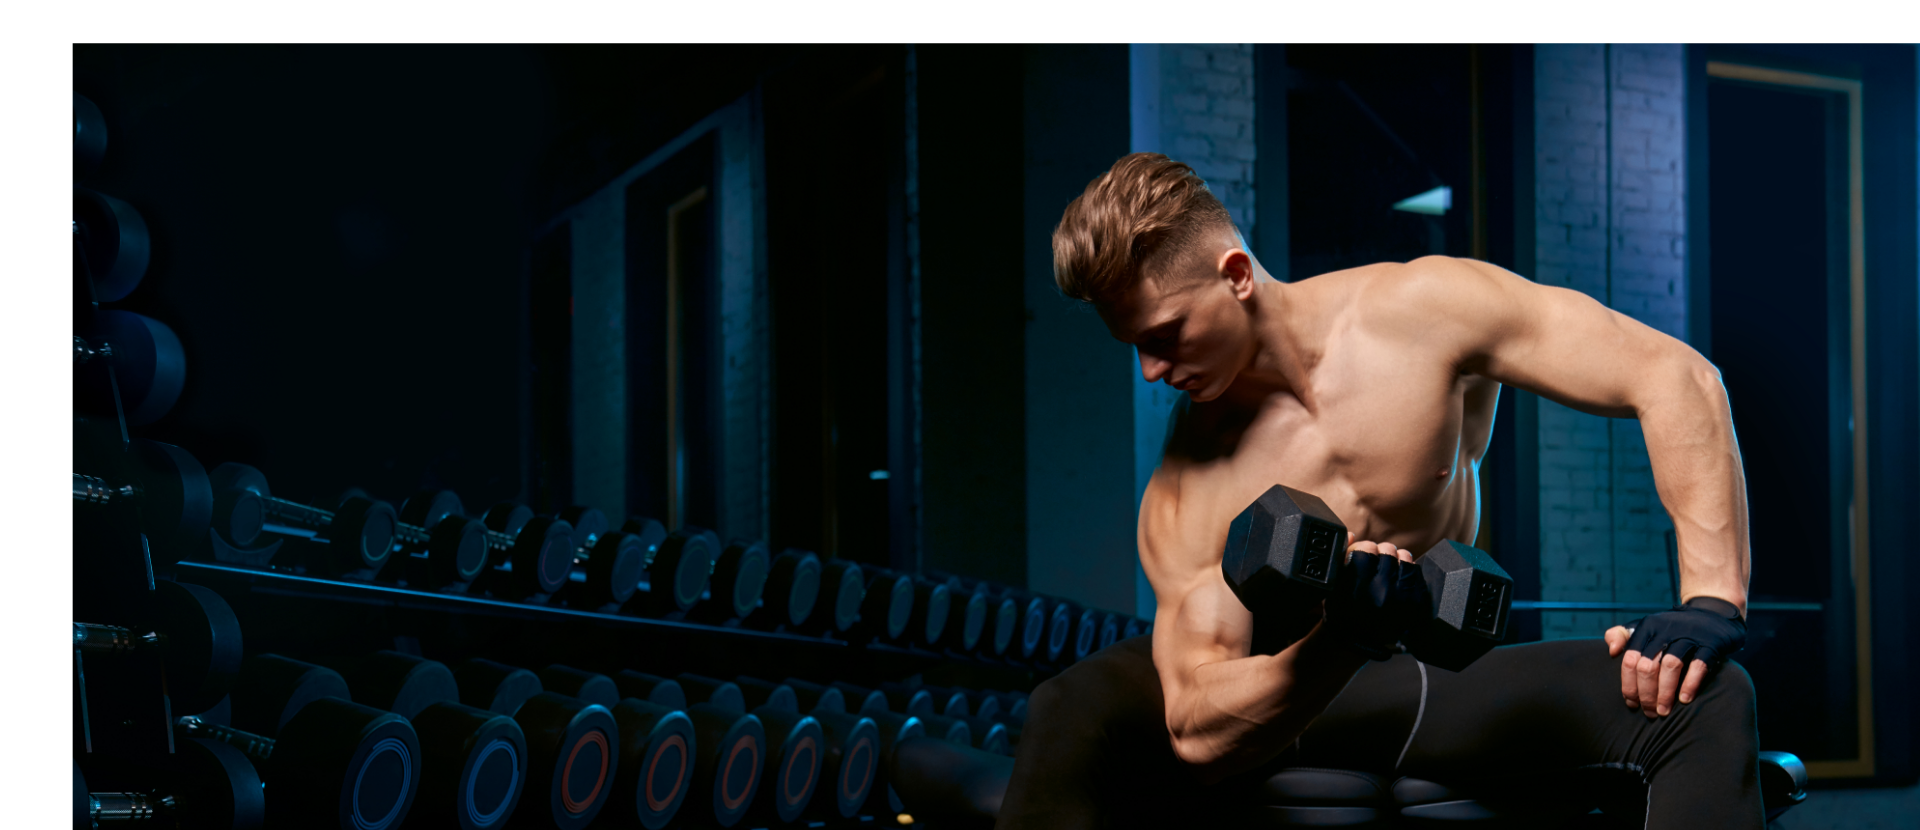
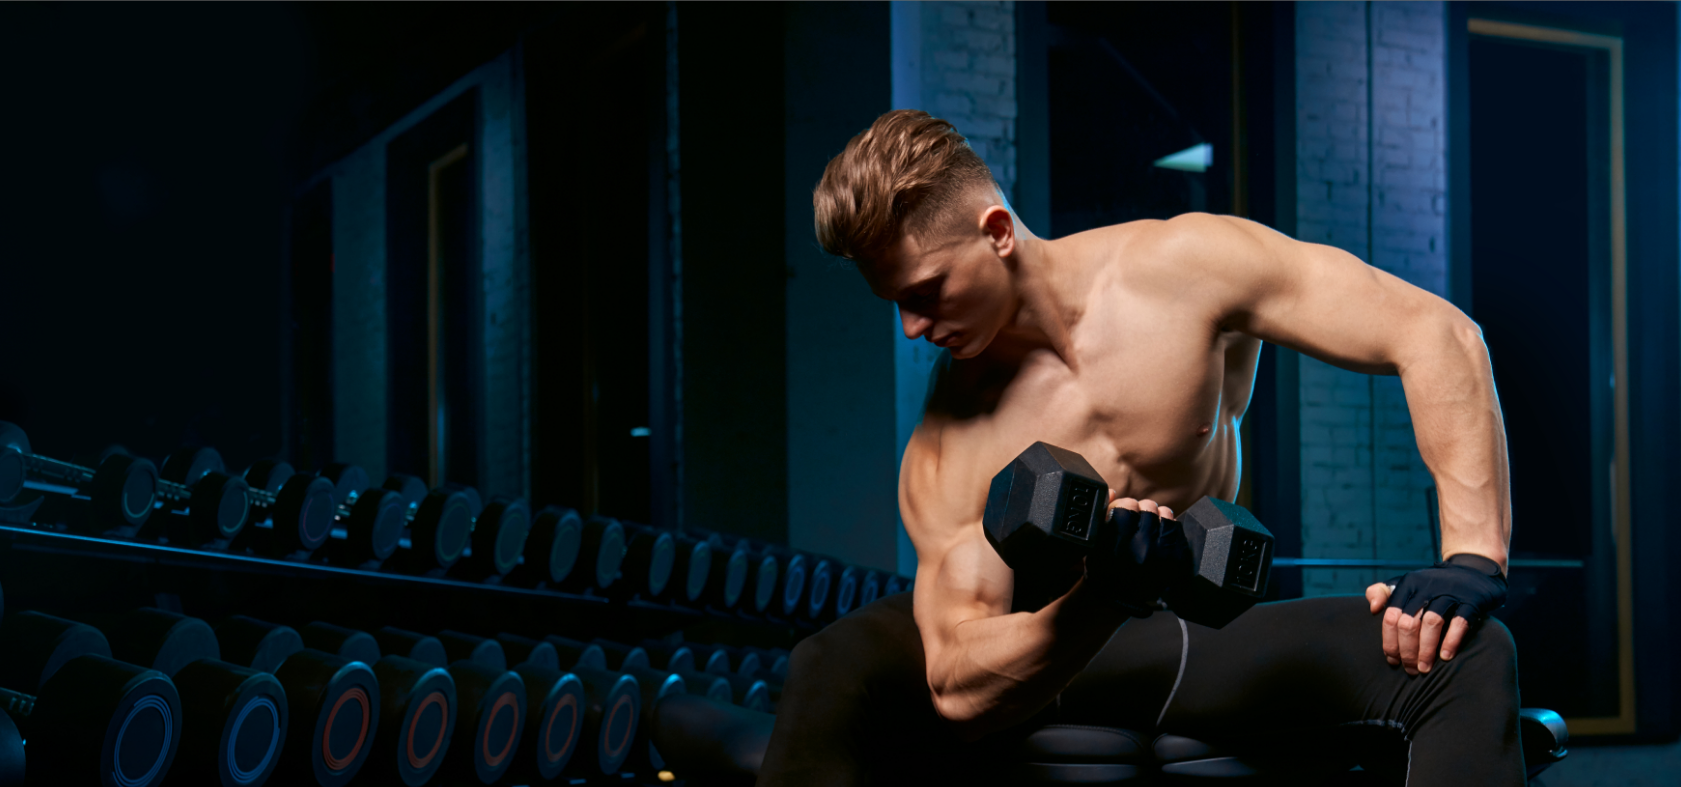
Added Home Section

diff --git a/index.html b/index.html
@@ -12,10 +12,10 @@
     <link rel="stylesheet" href="./style/style.css" />
   </head>
   <body>
-    <header class="header container-fluid bg-dark p-0" id="header">
+    <header class="header container-fluid bg-dark p-0 site-nav" id="header">
       <div class="container">
         <div class="row">
-          <div class="12 p-0">
+          <div class="col-12 p-0">
             <nav class="navbar navbar-expand-lg navbar-dark">
               <div
                 class="container-fluid align-items-center align-items-lg-end"
@@ -69,6 +69,31 @@
         </div>
       </div>
     </header>
+    <section id="home">
+      <div class="container-fluid home">
+        <div class="layer"></div>
+        <div class="container">
+          <div class="row">
+            <div class="col-12 col-md-8 col-lg-7">
+              <div
+                class="min-vh-100 d-flex align-items-end align-items-md-center"
+              >
+                <div class="mb-3 mb-lg-5 pb-lg-5 p-4 p-lg-5 home-text">
+                  <p class="h4 text-white">You Dont't Find</p>
+                  <h1 class="text-uppercase fw-bold display-1 text-light">
+                    Wll power
+                  </h1>
+                  <p class="h4 text-white">You create it</p>
+                  <a href="" class="btn btn-outline-light mt-2 text-uppercase"
+                    >Join us Now</a
+                  >
+                </div>
+              </div>
+            </div>
+          </div>
+        </div>
+      </div>
+    </section>
     <script src="./js/jQuery.js"></script>
     <script src="./node_modules/@popperjs/core/dist/umd/popper.js"></script>
     <script src="./vendor/bootstrap/js/bootstrap.bundle.js"></script>

diff --git a/style/style.css b/style/style.css
@@ -1,0 +1,89 @@
+* {
+  box-sizing: border-box;
+  margin: 0;
+  padding: 0;
+}
+
+body {
+  height: 300vh;
+}
+
+.site-nav {
+  position: absolute;
+  top: 0px;
+  left: 0px;
+  z-index: 2000;
+}
+
+.home {
+  background-image: url("../img/content-1.png");
+  background-repeat: no-repeat;
+  background-size: cover;
+}
+
+.home-text {
+  position: relative;
+}
+
+.home-text:before,
+.home-text:after {
+  content: "";
+  display: block;
+  position: absolute;
+  background-color: transparent;
+  pointer-events: none;
+}
+
+.home-text:before {
+  top: 0;
+  left: 0;
+  right: 60%;
+  bottom: 80%;
+  border-top: 4px solid red;
+  border-left: 4px solid red;
+}
+
+.home-text:after {
+  top: 80%;
+  left: 60%;
+  right: 0;
+  bottom: 0;
+  border-bottom: 4px solid red;
+  border-right: 4px solid red;
+}
+
+.layer {
+  background-color: rgba(51, 51, 51, 0.7);
+  position: absolute;
+  top: 0;
+  left: 0;
+  width: 100%;
+  height: 100%;
+}
+
+.border-left {
+  border-left: 2px solid #f51c40;
+  position: absolute;
+  top: 50%;
+  bottom: 0;
+}
+
+@media screen and (max-width: 1024px) {
+  .home {
+    background-image: url("../img/content-mobo-1.png");
+    background-position: center;
+  }
+}
+
+@media screen and (max-width: 800px) {
+  .home {
+    background-image: url("../img/content-mobo-1.png");
+    background-position: center;
+  }
+}
+
+@media screen and (max-width: 480px) {
+  .home {
+    background-image: url("../img/content-mobo-1.png");
+  }
+}
